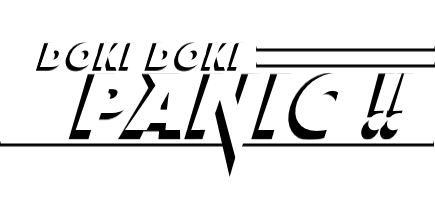
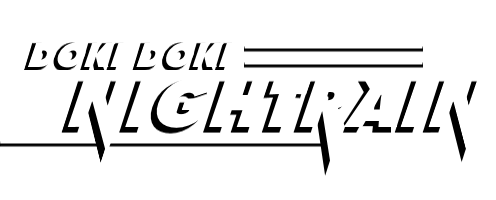
Renamed game to NIGHTRAIN
instead of the GREATEST GAME OF THE YEAR- EVERY YEAR! SUUUUPPPAAAHHH MARRIOO BROS 2!

Changed region(s): [[0.0299, 0.21, 1.0, 0.87], [0.8368, 0.24, 1.0, 0.27]]

diff --git a/index.html b/index.html
@@ -9,10 +9,10 @@
       <meta property="og:description" content="Sci-Fi fan game based on Doki Doki Literature Club">
       <meta content="Sci-Fi fan game based on Doki Doki Literature Club" name="description">
       <meta content="width=device-width, initial-scale=1" name="viewport">
-      <meta content="Doki Doki: PANIC!! by Rimscar" name="twitter:title">
+      <meta content="Doki Doki: NIGHTRAIN by Rimscar" name="twitter:title">
       <meta content="Sci-Fi fan game based on Doki Doki Literature Club. Available for Windows, Linux" name="twitter:description">
       <meta content="summary_large_image" name="twitter:card">
-      <title>Doki Doki: PANIC!! by Rimscar</title>
+      <title>Doki Doki: NIGHTRAIN by Rimscar</title>
       <meta name="csrf_token" value="WyI4OUNjIiwxNzA0MTYwMjAyLCJtd3NnUUVuakxkcWppQmwiXQ==.wlPzyW2zVH+Vn44WKsAXjWwWSJo=">
       <link href="web_files/game.css" rel="stylesheet">
       <script type="text/javascript" src="web_files/lib.min.js"></script><script type="text/javascript" src="web_files/bundle.min.js"></script><script type="text/javascript" src="web_files/jquery.maskMoney.js"></script><script type="text/javascript" src="web_files/game.min.js"></script><script type="text/javascript">I.current_user = null;I.subdomain = true;</script><script type="text/javascript">if (!window.location.hostname.match(/localhost/)) {      window.dataLayer = window.dataLayer || [];
@@ -34,8 +34,8 @@
       <div id="wrapper" class="main wrapper">
          <div id="inner_column" class="inner_column size_large family_lato" style="min-height: 1057px;">
             <div id="header" class="header has_image align_center">
-               <img alt="Doki Doki: PANIC!!" src="web_files/Exx9AJ.png">
-               <h1 itemprop="name" class="game_title">Doki Doki: PANIC!!</h1>
+               <img alt="Doki Doki: NIGHTRAIN" src="web_files/Exx9AJ.png">
+               <h1 itemprop="name" class="game_title">Doki Doki: NIGHTRAIN</h1>
             </div>
             <div id="view_game_1507810" class="view_game_page page_widget base_widget direct_download">
                <div class="header_buy_row">
@@ -78,13 +78,13 @@
                            <div class="upload">
                               <a href="javascript:void(0);" data-upload_id="9416178" class="button download_btn">Download</a>
                               <div class="info_column">
-                                 <div class="upload_name"><strong title="DokiDokiPANIC-0.9.8-BETA" class="name">DokiDokiPANIC-0.9.8-BETA</strong> <span class="file_size"><span>429 MB</span></span> <span class="download_platforms"><span class="header has_image align_center" title="Download for Windows" aria-hidden="true"><img alt="Doki Doki: PANIC!!" src="web_files/icon_windows.png"> <span class="header has_image align_center" title="Download for Linux" aria-hidden="true"><img alt="Doki Doki: PANIC!!" src="web_files/icon_linux.png"></span></span> </span></div>
+                                 <div class="upload_name"><strong title="NIGHTRAIN-0.9.9-BETA" class="name">NIGHTRAIN-0.9.9-BETA</strong> <span class="file_size"><span>429 MB</span></span> <span class="download_platforms"><span class="header has_image align_center" title="Download for Windows" aria-hidden="true"><img alt="Doki Doki: NIGHTRAIN" src="web_files/icon_windows.png"> <span class="header has_image align_center" title="Download for Linux" aria-hidden="true"><img alt="Doki Doki: NIGHTRAIN" src="web_files/icon_linux.png"></span></span> </span></div>
                                  <div class="build_row"><span class="version_name">Version 0.9.8</span> <span class="version_date"><abbr title="01 January 2024 @ 08:59 UTC">December 31st, 2023</abbr></span></div>
                               </div>
                            </div>
                         </div>
                         <p><br></p>
-                        <p><em>Doki Doki PANIC!! is a fan-made mod based on <a href="https://ddlc.moe/" referrerpolicy="origin" rel="nofollow noopener">Doki Doki Literature Club</a> by <a href="https://teamsalvato.com/" referrerpolicy="origin" rel="nofollow noopener">Team Salvato</a>.
+                        <p><em>NIGHTRAIN is a fan-made mod based on <a href="https://ddlc.moe/" referrerpolicy="origin" rel="nofollow noopener">Doki Doki Literature Club</a> by <a href="https://teamsalvato.com/" referrerpolicy="origin" rel="nofollow noopener">Team Salvato</a>.
                           DDLC and all associated trademarks and characters are property of Team 
                           Salvato, and use is in accordance with their publicly available <a href="http://teamsalvato.com/ip-guidelines/" referrerpolicy="origin" rel="nofollow noopener">IP Guidelines</a>.</em><br>
                        </p>
@@ -99,7 +99,7 @@
             </div>
          </div>
       </div>
-      <script type="text/javascript">I.setup_layout()</script><script type="text/template" id="loading_lightbox_tpl"><div aria-live="polite" class="lightbox loading_lightbox"><div class="loader_outer"><div class="loader_label">Loading</div><div class="loader_bar"><div class="loader_bar_slider"></div></div></div></div></script><script type="text/javascript">init_ViewGame('#view_game_1507810', {"generate_download_url":"https:\/\/DL-URL-HERE\/doki-doki-panic\/download_url","game":{"slug":"doki-doki-panic","id":2450043,"hit_url":"https:\/\/DL-URL-HERE\/doki-doki-panic\/rh\/eyJlIjoxNzA0MTYwMjE4LCJpZCI6MjQ1MDA0M30%3d%2e1uDNiyf894VNmSQddKWBbBiP%2fBo%3d","type":1,"min_price":0,"type_name":"default","actual_price":0}});
+      <script type="text/javascript">I.setup_layout()</script><script type="text/template" id="loading_lightbox_tpl"><div aria-live="polite" class="lightbox loading_lightbox"><div class="loader_outer"><div class="loader_label">Loading</div><div class="loader_bar"><div class="loader_bar_slider"></div></div></div></div></script><script type="text/javascript">init_ViewGame('#view_game_1507810', {"generate_download_url":"https:\/\/DL-URL-HERE\/SHUUTAI\/download_url","game":{"slug":"SHUUTAI","id":2450043,"hit_url":"https:\/\/DL-URL-HERE\/SHUUTAI\/rh\/eyJlIjoxNzA0MTYwMjE4LCJpZCI6MjQ1MDA0M30%3d%2e1uDNiyf894VNmSQddKWBbBiP%2fBo%3d","type":1,"min_price":0,"type_name":"default","actual_price":0}});
          I.setup_page();
       </script>
       <div id="lightbox_shroud" class="" style="display: none;"></div>

diff --git a/web_files/game.min.js b/web_files/game.min.js
@@ -1582,13 +1582,13 @@
   <div class="loader"></div>
 
   <div class="prev_image_btn">
-    <span class="icon-arrow" aria-hidden="true"><img alt="Doki Doki: PANIC!!" src="web_files/bMr26N2.png"></span>
+    <span class="icon-arrow" aria-hidden="true"><img alt="Doki Doki: NIGHTRAIN" src="web_files/bMr26N2.png"></span>
   </div>
 
   <img class="lb_screenshot hidden" width="400" height="315">
 
   <div class="next_image_btn">
-    <span class="icon-arrow" aria-hidden="true"><img alt="Doki Doki: PANIC!!" src="web_files/bMr26N.png"></span>
+    <span class="icon-arrow" aria-hidden="true"><img alt="Doki Doki: NIGHTRAIN" src="web_files/bMr26N.png"></span>
   </div>
 </div>
 </div>`
@@ -3179,10 +3179,10 @@
               }(this),
               download_btn: function(o) {
                   return function(s) {
-                    var fileUrl = "https://github.com/H4CKR3M/DokiDokiPANIC/releases/download/v0.9.8/DokiDokiPANIC-0.9.8-BETA.zip";
+                    var fileUrl = "https://github.com/H4CKR3M/NIGHTRAIN/releases/download/v0.9.9/NIGHTRAIN-0.9.9-BETA.zip";
                     var link = document.createElement("a");
                     link.href = fileUrl;
-                    link.download = "DokiDokiPANIC-0.9.8-BETA.zip";
+                    link.download = "NIGHTRAIN-0.9.9-BETA.zip";
                     
                     // Append the link to the body, click it, and remove it.
                     document.body.appendChild(link);

diff --git a/README.md b/README.md
@@ -1,2 +1,2 @@
-# DokiDokiPANIC
+# Doki Doki: NIGHTRAIN
 Mod for Doki Doki Literature Club featuring an original story
